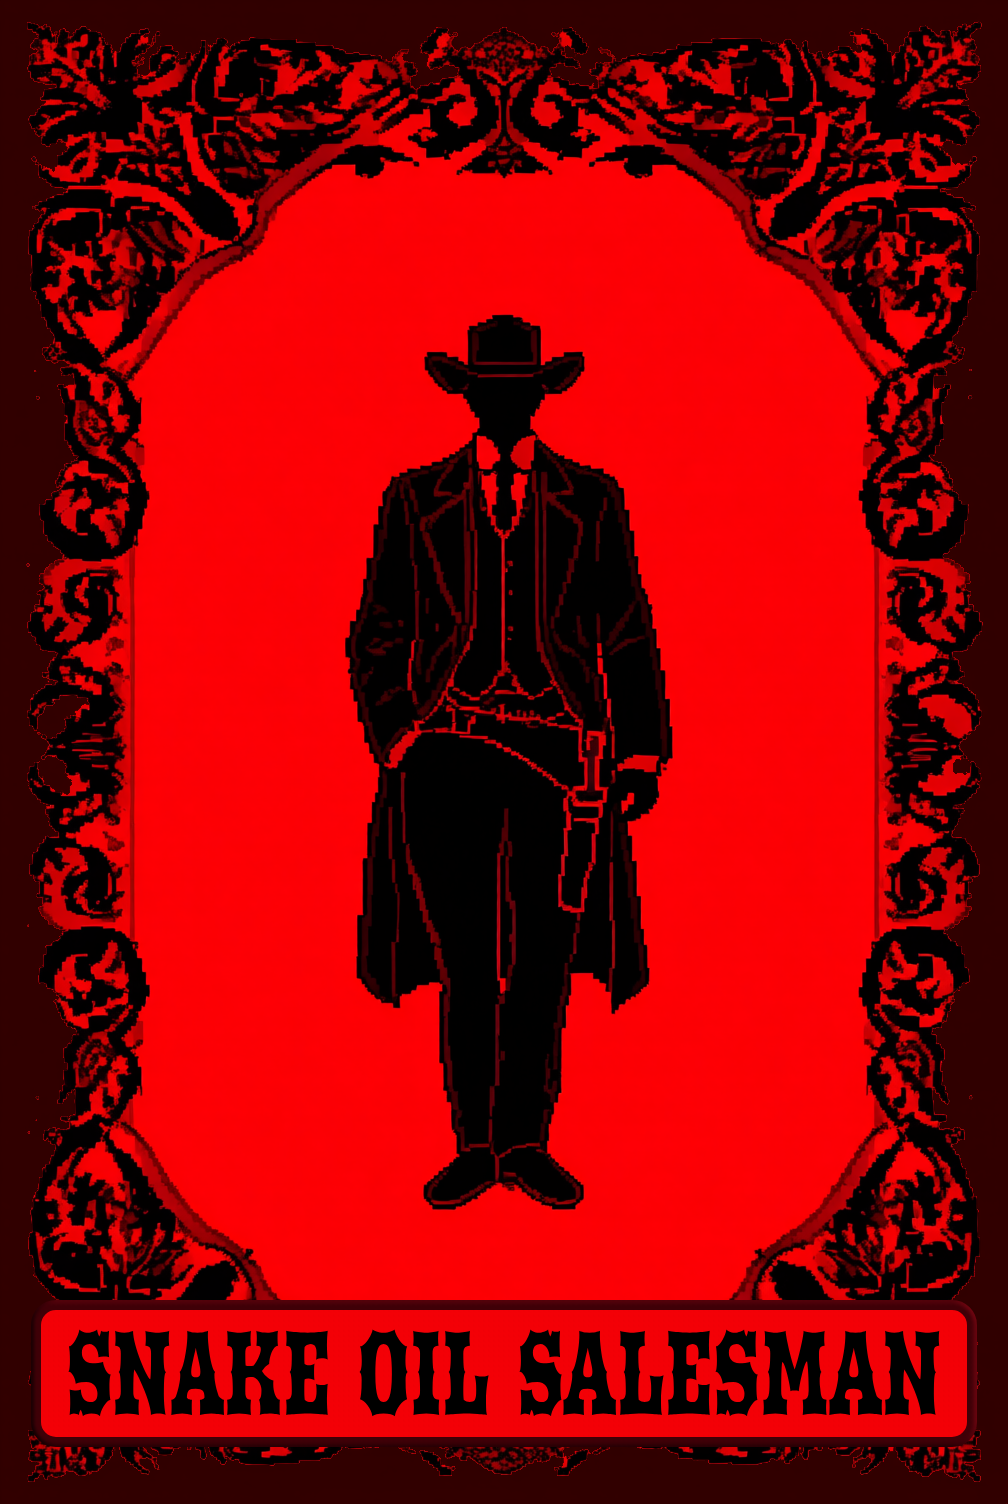
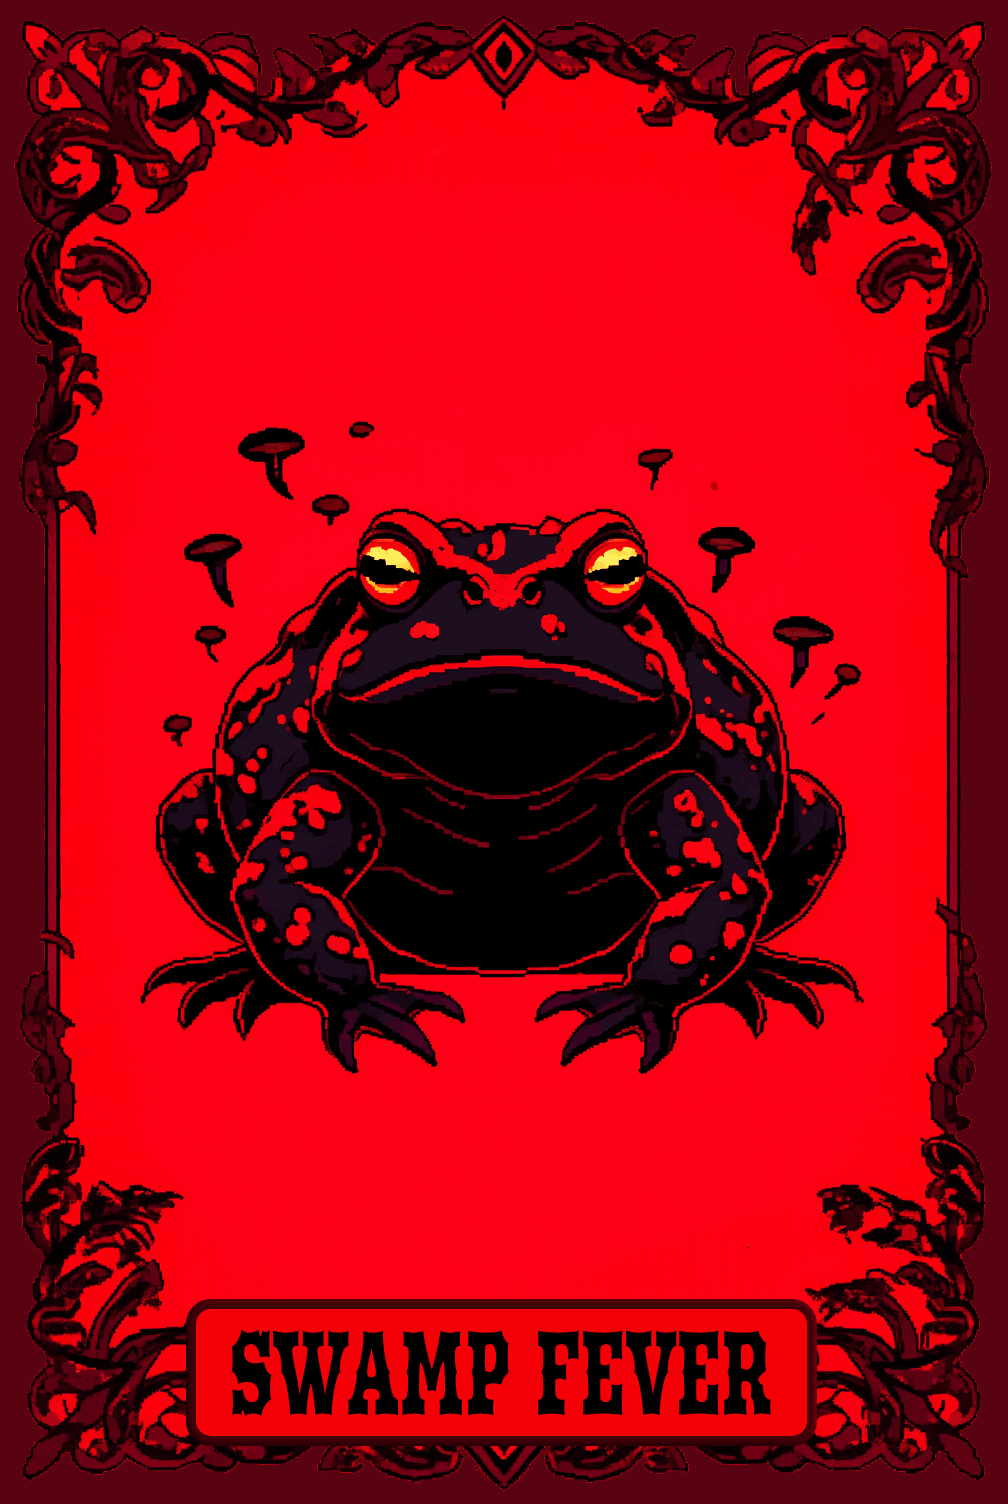
Update frontier encounters assets and enhance green contagion mechanics
- Adjusted frame positions for multiple images in `frontier_encounters.json` to optimize sprite layout.
- Updated the size of the sprite sheet to accommodate new asset arrangements.
- Modified the `green_contagion` sticker mechanics to include loaded dice effects, enhancing gameplay strategy.
- Improved tooltip display for dice with stickers, providing clearer information on their effects during gameplay.

These changes enhance asset management and refine gameplay mechanics, contributing to a more engaging player experience.

diff --git a/src/phaser/ui/DiceSprite.ts b/src/phaser/ui/DiceSprite.ts
@@ -12,15 +12,16 @@ import { effectPhaseFromSeed } from '../effects/context';
 import { isRegistryAura } from '../effects/registry';
 import { getAuraPrimary } from './AuraFX';
 import { DICE_ATLAS_KEY, resolveDiceAtlasFrame } from './diceAssets';
-import { HINT_COLORS } from './itemCard/itemCardHintStyles';
+import { getItemDisplayContext } from '../../game/displayContext';
+import type { HintSegment } from '../../game/ItemsSystem';
+import { HINT_COLORS, tooltipSegmentColors } from './itemCard/itemCardHintStyles';
 import diceEnhancements from '../../data/dice_enhancements';
 import diceAuras from '../../data/dice_auras';
-import diceStickers from '../../data/dice_stickers';
+import { getDiceStickerById } from '../../data/dice_stickers';
 
 // Lookup maps for descriptions
 const ENHANCEMENT_INFO = new Map(diceEnhancements.map((e) => [e.id, e]));
 const AURA_INFO = new Map(diceAuras.map((a) => [a.id, a]));
-const STICKER_INFO = new Map(diceStickers.map((s) => [s.id, s]));
 
 const DICE_SIZE = DICE.SIZE;
 const SELECTED_STROKE = DICE.SELECTED_STROKE;
@@ -435,12 +436,13 @@ export class DiceSprite extends GameObjects.Container {
       }
     }
 
-    // Sticker info
-    if (this._dieData.sticker) {
-      const info = STICKER_INFO.get(this._dieData.sticker);
-      const stickerName = info ? info.name : this._dieData.sticker.replace(/_/g, ' ');
-      const stickerDesc = info ? ` - ${info.description}` : '';
-      lines.push(`${stickerName}${stickerDesc}`);
+    const stickerInfo = this._dieData.sticker ? getDiceStickerById(this._dieData.sticker) : null;
+    const stickerTooltipRows = stickerInfo?.tooltip?.(getItemDisplayContext()) ?? null;
+
+    if (stickerInfo && !stickerTooltipRows) {
+      lines.push(`${stickerInfo.name} - ${stickerInfo.description}`);
+    } else if (stickerInfo && stickerTooltipRows) {
+      lines.push(stickerInfo.name);
     }
 
     const infoText = this.scene.add
@@ -466,9 +468,33 @@ export class DiceSprite extends GameObjects.Container {
         .setOrigin(0, 0);
     }
 
-    const contentWidth = Math.max(infoText.width, bonusText?.width ?? 0);
+    const stickerSegmentRows: GameObjects.Text[][] = [];
+    if (stickerTooltipRows) {
+      for (const row of stickerTooltipRows) {
+        stickerSegmentRows.push(this.createSegmentRowTexts(row));
+      }
+    }
+
+    let contentWidth = Math.max(infoText.width, bonusText?.width ?? 0);
+    for (const row of stickerSegmentRows) {
+      const rowWidth = row.reduce((sum, seg) => sum + seg.width, 0);
+      contentWidth = Math.max(contentWidth, rowWidth);
+    }
+
     infoText.setPosition(TOOLTIP_PAD, TOOLTIP_PAD);
     let contentBottom = TOOLTIP_PAD + infoText.height;
+
+    for (const row of stickerSegmentRows) {
+      contentBottom += 4;
+      let curX = TOOLTIP_PAD;
+      for (const segText of row) {
+        segText.setPosition(curX, contentBottom);
+        curX += segText.width;
+      }
+      const rowHeight = row.reduce((max, seg) => Math.max(max, seg.height), 0);
+      contentBottom += rowHeight;
+    }
+
     if (bonusText) {
       bonusText.setPosition(TOOLTIP_PAD, contentBottom + 4);
       contentBottom = bonusText.y + bonusText.height;
@@ -485,9 +511,27 @@ export class DiceSprite extends GameObjects.Container {
     bg.strokeRoundedRect(0, 0, tooltipWidth, tooltipHeight, 8);
     this.tooltip.add(bg);
     this.tooltip.add(infoText);
+    for (const row of stickerSegmentRows) {
+      for (const segText of row) {
+        this.tooltip.add(segText);
+      }
+    }
     if (bonusText) this.tooltip.add(bonusText);
 
     this.positionTooltipAtWorld(matrix.tx, matrix.ty);
+  }
+
+  private createSegmentRowTexts(row: HintSegment[]): GameObjects.Text[] {
+    return row.map((seg) => {
+      const colors = tooltipSegmentColors(seg.style);
+      return this.scene.add
+        .text(0, 0, seg.text, {
+          fontFamily: 'Arial',
+          fontSize: '13px',
+          color: colors.text,
+        })
+        .setOrigin(0, 0);
+    });
   }
 
   private positionTooltipAtWorld(worldX: number, worldY: number): void {

diff --git a/src/game/__tests__/items/stickerEffects.test.ts b/src/game/__tests__/items/stickerEffects.test.ts
@@ -1,6 +1,6 @@
 import { describe, test, expect, beforeEach } from 'bun:test';
 import '../setup';
-import { die, diceWithValue, calculateTestScore, resetDieIds } from '../testHelpers';
+import { die, diceWithValue, item, calculateTestScore, resetDieIds } from '../testHelpers';
 
 beforeEach(() => resetDieIds());
 
@@ -144,7 +144,7 @@ describe('green_contagion sticker', () => {
     const source = die({ value: 6, enhancement: 'bone', sticker: 'green_contagion' });
     const { player } = calculateTestScore({
       scoredDice: [neighbor, source],
-      runSeed: 'gc-fail-1',
+      runSeed: 'gc-fail-2',
     });
     const patched = player.dice.find((d) => d.id === neighbor.id);
     expect(patched?.sticker).toBeNull();
@@ -157,9 +157,51 @@ describe('green_contagion sticker', () => {
     const right = die({ value: 8 });
     const { player } = calculateTestScore({
       scoredDice: [left, source, right],
-      runSeed: 'gc-both-7',
+      runSeed: 'gc-both-8',
     });
     expect(player.dice.find((d) => d.id === left.id)?.sticker).toBe('green_contagion');
     expect(player.dice.find((d) => d.id === right.id)?.sticker).toBe('green_contagion');
+  });
+
+  test('loaded_dice turns a failing spread seed into a success', () => {
+    const neighbor = die({ value: 4 });
+    const source = die({ value: 6, enhancement: 'bone', sticker: 'green_contagion' });
+    const { player } = calculateTestScore({
+      scoredDice: [neighbor, source],
+      runSeed: 'gc-fail-2',
+      equipment: [item('loaded_dice')],
+    });
+    const patched = player.dice.find((d) => d.id === neighbor.id);
+    expect(patched?.sticker).toBe('green_contagion');
+    expect(patched?.enhancement).toBe('bone');
+  });
+
+  test('loaded_dice doubles spread chance for a single neighbor', () => {
+    const neighbor = die({ value: 4 });
+    const source = die({ value: 6, enhancement: 'bone', sticker: 'green_contagion' });
+    let spreadBase = 0;
+    let spreadLoaded = 0;
+    const runs = 5000;
+
+    for (let i = 0; i < runs; i++) {
+      const { player: basePlayer } = calculateTestScore({
+        scoredDice: [neighbor, source],
+        runSeed: `gc-rate-base-${i}`,
+      });
+      if (basePlayer.dice.find((d) => d.id === neighbor.id)?.sticker === 'green_contagion') spreadBase++;
+
+      const { player: loadedPlayer } = calculateTestScore({
+        scoredDice: [neighbor, source],
+        runSeed: `gc-rate-loaded-${i}`,
+        equipment: [item('loaded_dice')],
+      });
+      if (loadedPlayer.dice.find((d) => d.id === neighbor.id)?.sticker === 'green_contagion') spreadLoaded++;
+    }
+
+    const baseRate = spreadBase / runs;
+    const loadedRate = spreadLoaded / runs;
+    expect(baseRate).toBeGreaterThan(0.42);
+    expect(baseRate).toBeLessThan(0.58);
+    expect(loadedRate).toBeGreaterThan(0.95);
   });
 });

diff --git a/src/game/store/shopStock.ts b/src/game/store/shopStock.ts
@@ -7,7 +7,8 @@ import { createDie } from '../DiceSystem';
 import type { Die } from '../types';
 import { generateShopStock, type EquipmentDef } from '../ItemsSystem';
 import diceEnhancements from '../../data/dice_enhancements';
-import diceStickers from '../../data/dice_stickers';
+import { getDiceStickerById } from '../../data/dice_stickers';
+import type { HintSegment } from '../../data/items';
 import {
   getRandomSupplyDef,
   getRandomTrailGuideDef,
@@ -45,18 +46,13 @@ const SHOP_ENHANCEMENTS: Die['enhancement'][] = ['bone', 'lucky', 'wooden', 'ste
 export const DICE_SHOP_COST = 5;
 
 const ENHANCEMENT_INFO = new Map(diceEnhancements.map((e) => [e.id, e]));
-const STICKER_INFO = new Map(diceStickers.map((s) => [s.id, s]));
 
 /** Equipment-shaped display metadata for shop dice cards (name, cost, tooltip). */
 export function buildShopDieDisplayDef(die: Die): EquipmentDef {
   const enhInfo = die.enhancement ? ENHANCEMENT_INFO.get(die.enhancement) : null;
   const name = enhInfo ? `${enhInfo.name} Die` : 'Die';
-  const descParts = [enhInfo?.description ?? 'Standard die'];
-  if (die.sticker) {
-    const stickerInfo = STICKER_INFO.get(die.sticker);
-    if (stickerInfo) descParts.push(`Sticker: ${stickerInfo.name}`);
-  }
-  const tooltipText = descParts.join('\n');
+  const stickerInfo = die.sticker ? getDiceStickerById(die.sticker) : null;
+
   return {
     id: `shop_die_${die.id}`,
     name,
@@ -64,10 +60,16 @@ export function buildShopDieDisplayDef(die: Die): EquipmentDef {
     rarity: 'uncommon',
     effectType: 'DICE',
     effectParams: {},
-    display: () => ({
-      hint: [],
-      tooltip: [[{ text: tooltipText, style: 'text' }]],
-    }),
+    display: (_round, player) => {
+      const tooltip: HintSegment[][] = [[{ text: enhInfo?.description ?? 'Standard die', style: 'text' }]];
+      if (stickerInfo) {
+        tooltip.push([{ text: `Sticker: ${stickerInfo.name}`, style: 'text' }]);
+        if (stickerInfo.tooltip) {
+          tooltip.push(...stickerInfo.tooltip(player));
+        }
+      }
+      return { hint: [], tooltip };
+    },
   };
 }
 

diff --git a/src/game/__tests__/store/shopStock.test.ts b/src/game/__tests__/store/shopStock.test.ts
@@ -35,6 +35,7 @@ import { deserializeEquipmentInstance } from '../../SaveLoad';
 import { resolveEquipmentInstance } from '../../store/resolve';
 import { rollShopEquipmentPreview } from '../../EquipmentModifiers';
 import { getPlayerState, resetPlayerState } from '../testRunPlayer';
+import { item, setupGame } from '../testHelpers';
 
 describe('shopStock', () => {
   beforeEach(() => {
@@ -297,8 +298,25 @@ describe('buildShopDieDisplayDef', () => {
   test('stickered die appends sticker line to tooltip', () => {
     const die = createDie({ enhancement: 'steel', sticker: 'purple_flower' });
     const displayDef = buildShopDieDisplayDef(die);
-    const tooltip = displayDef.display(null, getItemDisplayContext()).tooltip?.[0]?.[0]?.text ?? '';
-    expect(tooltip).toContain('Sticker: Purple Flower');
+    const stickerRow = displayDef.display(null, getItemDisplayContext()).tooltip?.[1]?.[0]?.text ?? '';
+    expect(stickerRow).toBe('Sticker: Purple Flower');
+  });
+
+  test('green_contagion shop die tooltip shows base odds without loaded dice', () => {
+    const die = createDie({ sticker: 'green_contagion' });
+    const displayDef = buildShopDieDisplayDef(die);
+    const oddsRow = displayDef.display(null, getItemDisplayContext()).tooltip?.[2] ?? [];
+    const oddsSegment = oddsRow.find((seg) => seg.style === 'odds');
+    expect(oddsSegment?.text).toBe('1 in 2');
+  });
+
+  test('green_contagion shop die tooltip shows loaded dice odds', () => {
+    setupGame({ equipment: [item('loaded_dice')] });
+    const die = createDie({ sticker: 'green_contagion' });
+    const displayDef = buildShopDieDisplayDef(die);
+    const oddsRow = displayDef.display(null, getItemDisplayContext()).tooltip?.[2] ?? [];
+    const oddsSegment = oddsRow.find((seg) => seg.style === 'odds');
+    expect(oddsSegment?.text).toBe('2 in 2');
   });
 
   test('shop die display id is tied to die instance', () => {

diff --git a/src/data/dice_stickers.ts b/src/data/dice_stickers.ts
@@ -1,6 +1,10 @@
 // ─── Dice Sticker Definitions ───
 // Display metadata for whole-die stickers (purple flower, red bullet, etc.).
 
+import type { ItemDisplayContext } from '../game/displayContextTypes';
+import { formatLoadedOddsLabel } from '../game/equipmentUtils';
+import type { HintSegment } from './items';
+
 // ─── Types ───
 
 export interface DiceStickerDef {
@@ -8,7 +12,13 @@ export interface DiceStickerDef {
   name: string;
   description: string;
   color: string;
+  tooltip?: (player: ItemDisplayContext) => HintSegment[][];
 }
+
+/** Base spread chance per neighbor for green_contagion (× Loaded Dice multiplier). */
+export const GREEN_CONTAGION_SPREAD_CHANCE: [number, number] = [1, 2];
+
+const segment = (text: string, style: HintSegment['style'] = 'text'): HintSegment => ({ text, style });
 
 // ─── Sticker Definitions ───
 
@@ -41,8 +51,22 @@ const diceStickers = [
   {
     id: 'green_contagion',
     name: 'Green Contagion',
-    description: 'When played, 1 in 2 chance to spread this sticker and enhancement to each neighboring played die',
+    description: 'When played, may spread this sticker and enhancement to each neighboring played die',
     color: '0x4caf50',
+    tooltip: (player: ItemDisplayContext) => [
+      [
+        segment('When played, '),
+        segment(
+          formatLoadedOddsLabel(
+            GREEN_CONTAGION_SPREAD_CHANCE[0],
+            GREEN_CONTAGION_SPREAD_CHANCE[1],
+            player.equipment,
+          ),
+          'odds',
+        ),
+        segment(' chance to spread this sticker and enhancement to each neighboring played die.'),
+      ],
+    ],
   },
 ] as const satisfies readonly DiceStickerDef[];
 

diff --git a/src/game/scoring/stickerScoring.ts b/src/game/scoring/stickerScoring.ts
@@ -1,11 +1,11 @@
 // ─── Post-score sticker effects (no Phaser imports) ───
 
+import { GREEN_CONTAGION_SPREAD_CHANCE } from '../../data/dice_stickers';
 import type { Die, ScoreAnimEvent } from '../types';
 import type { ScoringMutations } from '../effects/types';
 import { getRandomSupplyDef } from '../ConsumablesSystem';
-import { rngFloat } from '../RunRng';
-
-const GREEN_CONTAGION_CHANCE = 0.5;
+import { checkLoadedChance } from '../equipmentUtils';
+import type { EquipmentInstance } from '../ItemsSystem';
 
 export function applyPurpleFlowerNonScoring(
   playedDice: Die[],
@@ -32,6 +32,7 @@ export function applyPurpleFlowerNonScoring(
 
 export function applyGreenContagionSpread(
   playedDice: Die[],
+  equipment: EquipmentInstance[],
   mutations: ScoringMutations,
   animEvents: ScoreAnimEvent[],
 ): void {
@@ -44,7 +45,7 @@ export function applyGreenContagionSpread(
     if (i < playedDice.length - 1) neighbors.push(playedDice[i + 1]!);
 
     for (const neighbor of neighbors) {
-      if (rngFloat('dice') >= GREEN_CONTAGION_CHANCE) continue;
+      if (!checkLoadedChance(GREEN_CONTAGION_SPREAD_CHANCE, equipment, 'loadedDice')) continue;
 
       const patch: ScoringMutations['diceEnhanced'][number] = {
         id: neighbor.id,

diff --git a/src/game/handBuilding.ts b/src/game/handBuilding.ts
@@ -18,6 +18,7 @@ export function buildHandDiceIds(options: BuildHandDiceIdsOptions): string[] {
   const { run, rollSize, carryoverIds = [], priorityIds = [], extraHandIds = [] } = options;
   const available = selectAvailableDice(run);
   const availableById = new Map(available.map((d) => [d.id, d]));
+  const reservedExtraHandIds = new Set(extraHandIds);
   const hand: Die[] = [];
   const usedIds = new Set<string>();
 
@@ -41,7 +42,7 @@ export function buildHandDiceIds(options: BuildHandDiceIdsOptions): string[] {
 
   const remainingSlots = rollSize - hand.length;
   if (remainingSlots > 0) {
-    const pool = available.filter((d) => !usedIds.has(d.id));
+    const pool = available.filter((d) => !usedIds.has(d.id) && !reservedExtraHandIds.has(d.id));
     const drawn = drawFromPouch(pool, Math.min(remainingSlots, pool.length)).drawn;
     for (const die of drawn) {
       hand.push(die);

diff --git a/src/game/equipmentUtils.ts b/src/game/equipmentUtils.ts
@@ -169,6 +169,15 @@ export function getLoadedDiceMultiplier(equipment: { def: { effectType: string }
   return count > 0 ? Math.pow(2, count) : 1;
 }
 
+/** Human-readable "N in D" odds label accounting for Loaded Dice multiplier. */
+export function formatLoadedOddsLabel(
+  baseNumerator: number,
+  denominator: number,
+  equipment: { def: { effectType: string } }[],
+): string {
+  return `${baseNumerator * getLoadedDiceMultiplier(equipment)} in ${denominator}`;
+}
+
 export function hasGamblersDiceCup(equipment: { def: { effectType: string } }[]): boolean {
   return equipment.some((equip) => equip.def.effectType === 'GAMBLERS_DICE_CUP');
 }

diff --git a/src/game/scoring/scoreHand.ts b/src/game/scoring/scoreHand.ts
@@ -322,7 +322,7 @@ export function scoreHand(
   if (scoreContext?.selectedForScoreDice) {
     const scoringIds = new Set(handResult.scoringDice.map((d) => d.id));
     applyPurpleFlowerNonScoring(scoreContext.selectedForScoreDice, scoringIds, pipelineCtx.mutations, animEvents);
-    applyGreenContagionSpread(scoreContext.selectedForScoreDice, pipelineCtx.mutations, animEvents);
+    applyGreenContagionSpread(scoreContext.selectedForScoreDice, equipment, pipelineCtx.mutations, animEvents);
   }
 
   // FIRST_DAY_SOLO_COPY: Bloodline — copy the solo die if scored alone on day 1
